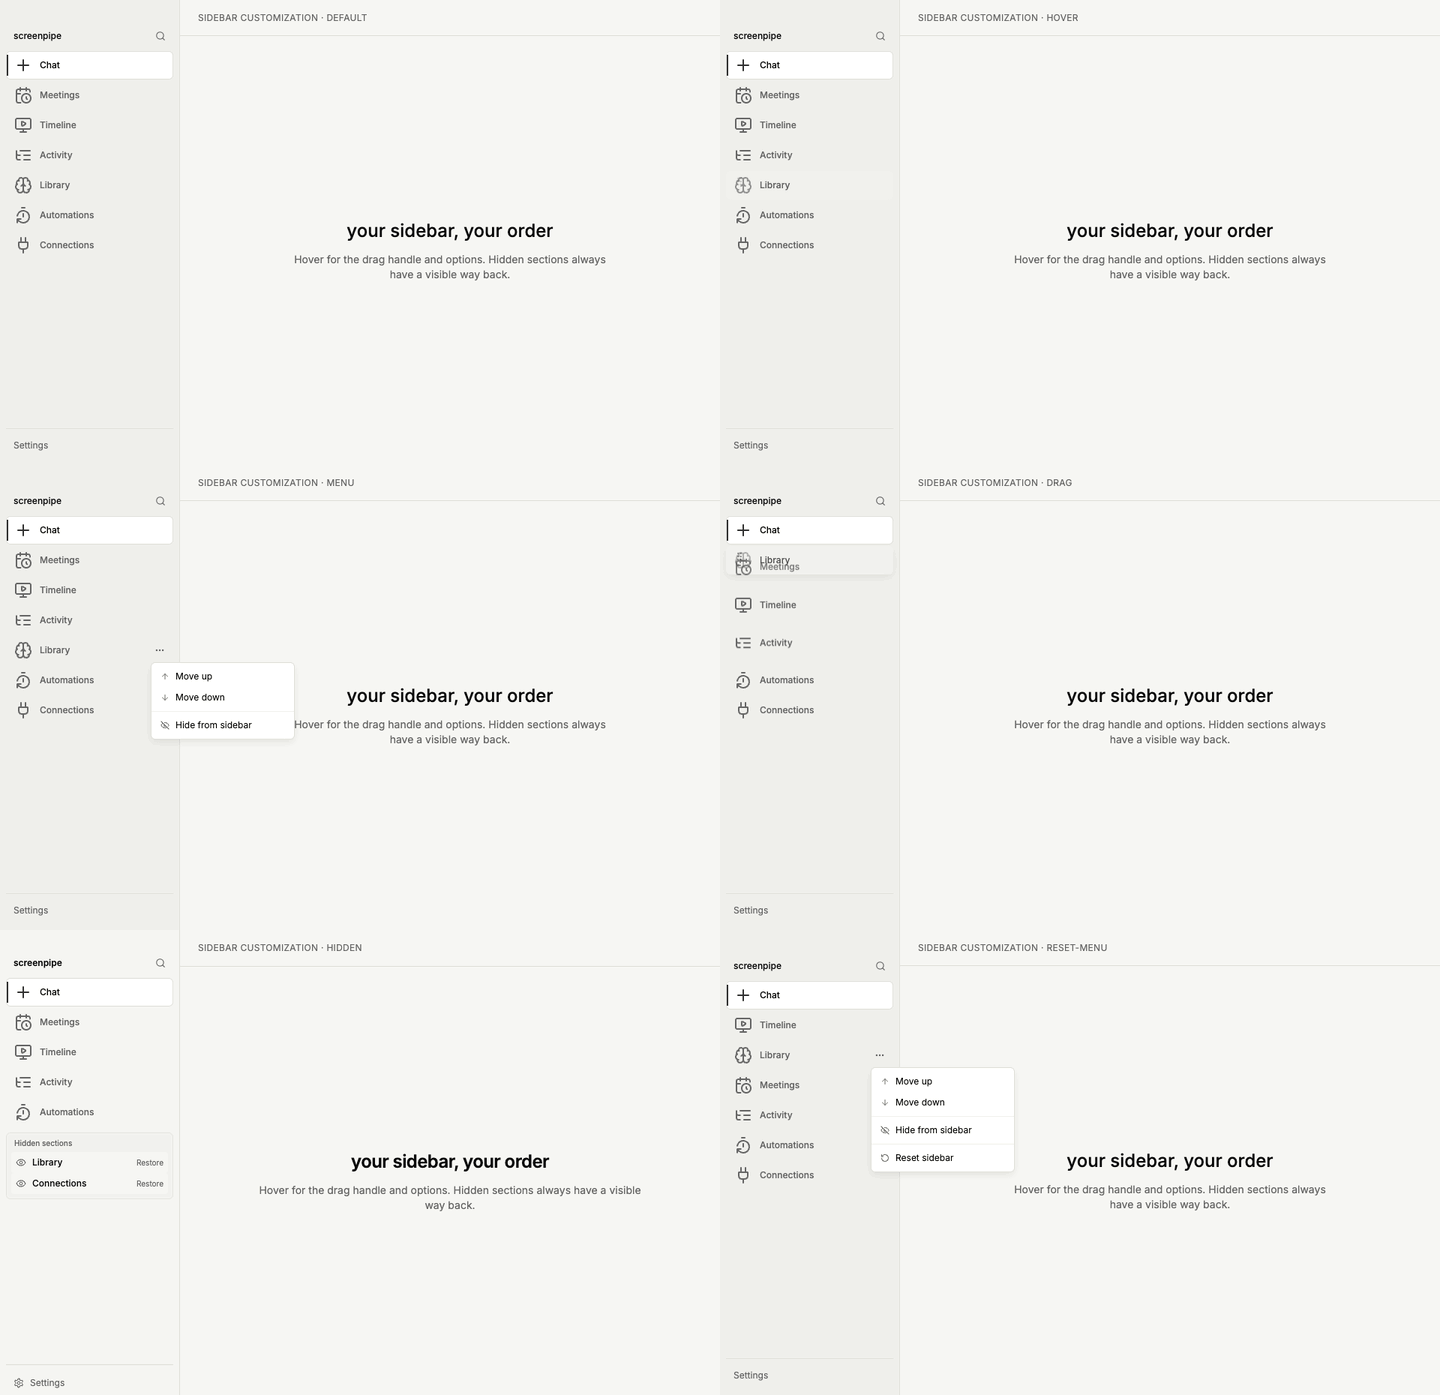
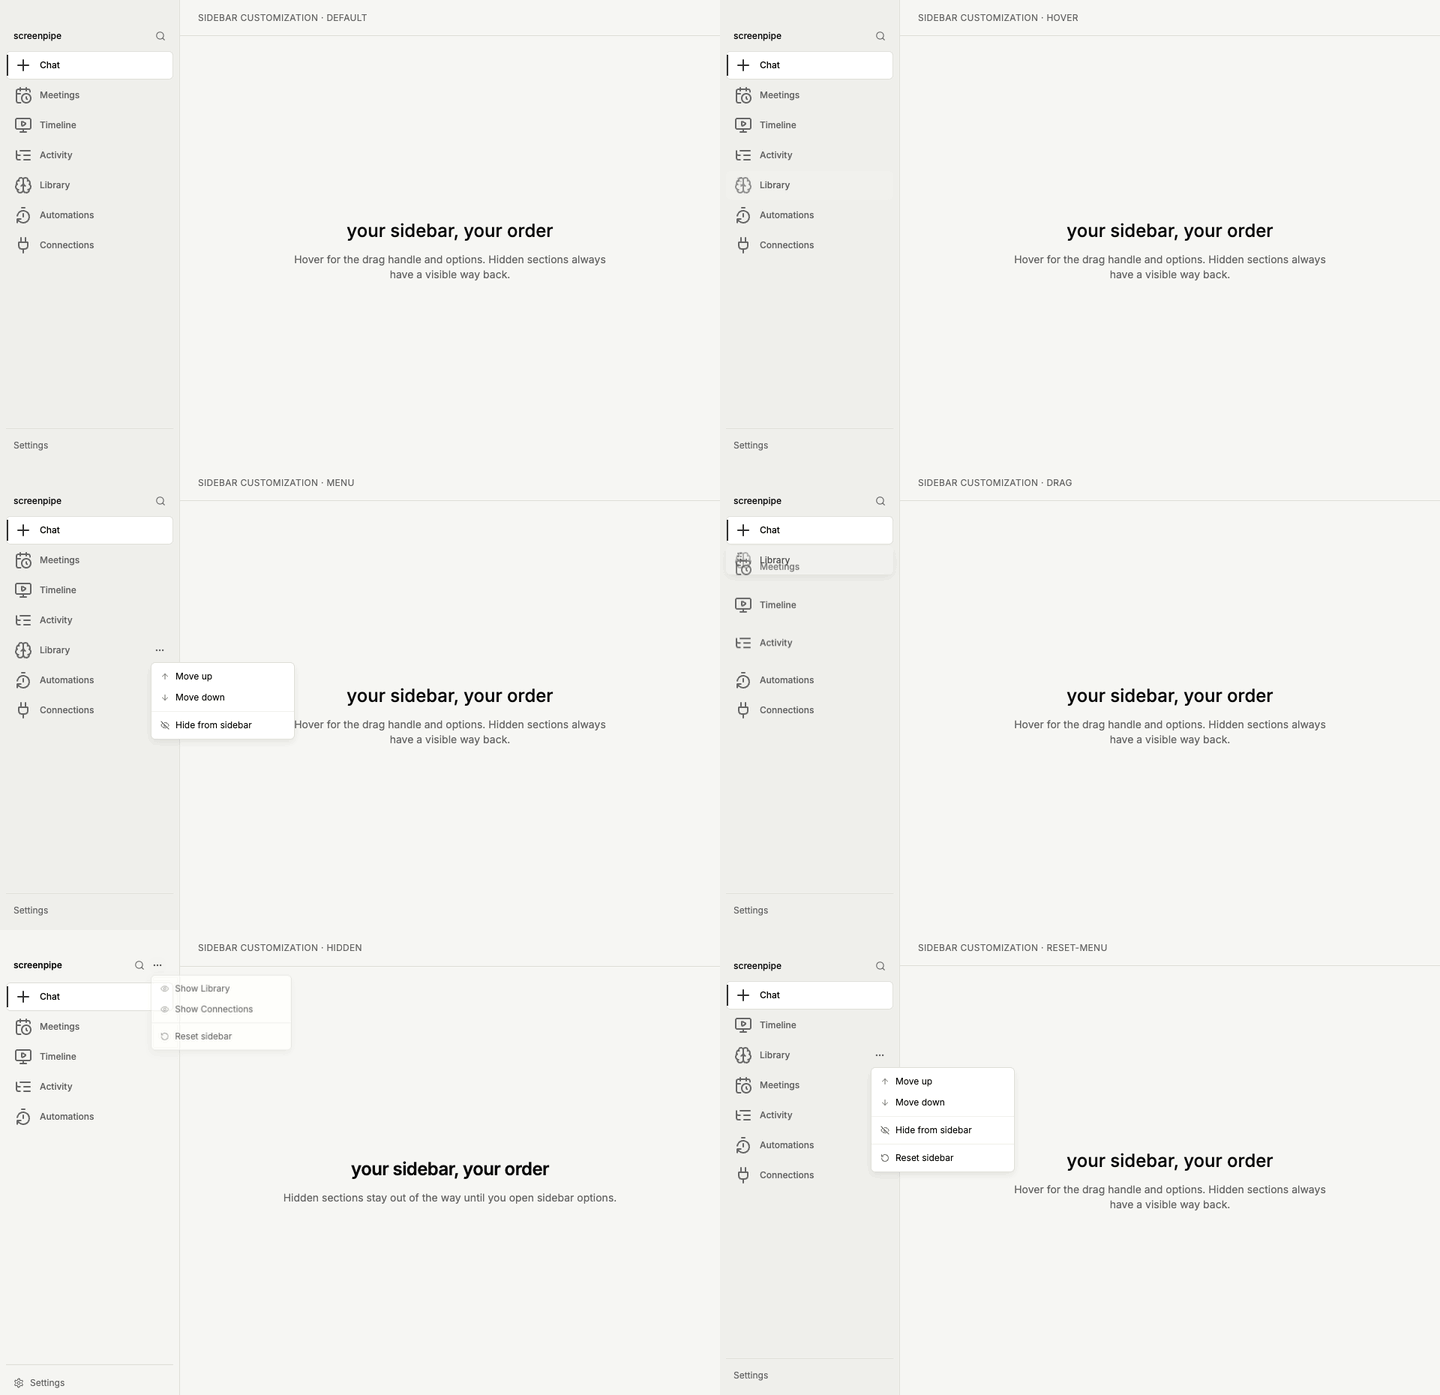
fix(sidebar): move hidden recovery into overflow

diff --git a/apps/screenpipe-app-tauri/components/sidebar-nav-list.tsx b/apps/screenpipe-app-tauri/components/sidebar-nav-list.tsx
@@ -12,11 +12,10 @@
 //     and a "…" button appears, the same two cues Notion/Linear/Slack use, and
 //     the "…" opens the identical menu right-click does (one menu, two ways in
 //     — mirroring RowMenuItems in chat-sidebar.tsx).
-//   * Hiding a row used to make it vanish with no trace, and the only way back
-//     was right-clicking a *different* row to find "Show X". Hidden rows now
-//     have a home: an explicit recovery panel under the nav listing exactly
-//     what is hidden, with a named Restore action. The control sits next to the
-//     thing it affects instead of inside an unrelated row's menu.
+//   * Hiding should remove chrome, not replace it with a second list. Once the
+//     layout changes, a compact sidebar-options button appears in the top
+//     chrome. Hidden rows live behind that progressive disclosure as explicit
+//     "Show X" actions.
 //
 import React from "react";
 import {
@@ -71,8 +70,6 @@ export type SidebarNavItem = {
 
 export type SidebarNavListProps = {
   items: SidebarNavItem[];
-  /** Ids the user can bring back, with their labels, for the hidden strip. */
-  hiddenItems: Array<{ id: SidebarNavId; label: string }>;
   activeId: string;
   isTranslucent: boolean;
   canReset: boolean;
@@ -82,6 +79,13 @@ export type SidebarNavListProps = {
   onShift: (id: SidebarNavId, direction: -1 | 1) => void;
   onSetHidden: (id: SidebarNavId, hidden: boolean) => void;
   onReset: () => void;
+};
+
+export type SidebarCustomizationMenuProps = Pick<
+  SidebarNavListProps,
+  "isTranslucent" | "canReset" | "onSetHidden" | "onReset"
+> & {
+  hiddenItems: Array<{ id: SidebarNavId; label: string }>;
 };
 
 const ITEM_CLS =
@@ -104,8 +108,8 @@ function rowClassName(isActive: boolean, isTranslucent: boolean) {
 
 /**
  * One menu, rendered into either the right-click surface or the "…" dropdown.
- * Actions are scoped to this row only — restoring a hidden row belongs to the
- * hidden strip, next to the row it affects.
+ * Actions are scoped to this row only. Restoring hidden rows lives behind the
+ * compact sidebar-options button in the top chrome.
  */
 function RowMenuItems({
   variant,
@@ -300,62 +304,62 @@ function SortableRow({
   );
 }
 
-/**
- * Where hidden rows live. Without this, hiding a row is a one-way door: it
- * vanishes and the user has no visible path back. Rendered only when something
- * is actually hidden, so a stock sidebar carries no extra chrome.
- */
-function HiddenStrip({
+/** Progressive disclosure for restoring hidden rows or resetting the layout. */
+export function SidebarCustomizationMenu({
   hiddenItems,
   isTranslucent,
-  onShow,
-}: {
-  hiddenItems: SidebarNavListProps["hiddenItems"];
-  isTranslucent: boolean;
-  onShow: (id: SidebarNavId) => void;
-}) {
-  if (hiddenItems.length === 0) return null;
+  canReset,
+  onSetHidden,
+  onReset,
+}: SidebarCustomizationMenuProps) {
+  if (!canReset) return null;
   return (
-    <div
-      className={cn(
-        "mt-2 rounded-md border p-1.5",
-        isTranslucent
-          ? "border-white/10 bg-white/5"
-          : "border-border/70 bg-muted/30",
-      )}
-      data-testid="sidebar-hidden-strip"
-    >
-      <p className="px-1 pb-1 text-[10px] font-medium text-muted-foreground">
-        Hidden sections
-      </p>
-      {hiddenItems.map((hidden) => (
+    <DropdownMenu>
+      <DropdownMenuTrigger asChild>
         <button
-          key={hidden.id}
           type="button"
-          data-testid={`sidebar-show-${hidden.id}`}
-          onClick={() => onShow(hidden.id)}
-          aria-label={`Restore ${hidden.label} to sidebar`}
+          aria-label="sidebar options"
+          title="sidebar options"
+          data-testid="sidebar-options"
+          data-announcement-anchor="top-sidebar-options"
           className={cn(
-            "group/restore flex w-full items-center gap-2 rounded-sm px-1.5 py-1.5 text-left transition-colors duration-150 focus-visible:outline-none focus-visible:ring-1 focus-visible:ring-inset focus-visible:ring-signal motion-reduce:transition-none",
+            "rounded-md p-1 transition-colors focus-visible:outline-none focus-visible:ring-1 focus-visible:ring-signal",
             isTranslucent
-              ? "vibrant-nav-item vibrant-nav-hover"
-              : "bg-background/60 text-foreground hover:bg-card",
+              ? "vibrant-nav-item"
+              : "text-muted-foreground hover:bg-muted/50 hover:text-foreground",
           )}
         >
-          <Eye className="h-3.5 w-3.5 shrink-0 text-muted-foreground" />
-          <span className="truncate text-xs font-medium">{hidden.label}</span>
-          <span className="ml-auto text-[10px] text-muted-foreground group-hover/restore:text-foreground">
-            Restore
-          </span>
+          <MoreHorizontal className="h-3.5 w-3.5" />
         </button>
-      ))}
-    </div>
+      </DropdownMenuTrigger>
+      <DropdownMenuContent align="start" className="w-48">
+        {hiddenItems.map((hidden) => (
+          <DropdownMenuItem
+            key={hidden.id}
+            className={ITEM_CLS}
+            data-testid={`sidebar-show-${hidden.id}`}
+            onSelect={() => onSetHidden(hidden.id, false)}
+          >
+            <Eye />
+            Show {hidden.label}
+          </DropdownMenuItem>
+        ))}
+        {hiddenItems.length > 0 && <DropdownMenuSeparator />}
+        <DropdownMenuItem
+          className={ITEM_CLS}
+          data-testid="sidebar-options-reset"
+          onSelect={onReset}
+        >
+          <RotateCcw />
+          Reset sidebar
+        </DropdownMenuItem>
+      </DropdownMenuContent>
+    </DropdownMenu>
   );
 }
 
 export function SidebarNavList({
   items,
-  hiddenItems,
   activeId,
   isTranslucent,
   canReset,
@@ -412,11 +416,6 @@ export function SidebarNavList({
           </div>
         </SortableContext>
       </DndContext>
-      <HiddenStrip
-        hiddenItems={hiddenItems}
-        isTranslucent={isTranslucent}
-        onShow={(id) => onSetHidden(id, false)}
-      />
     </div>
   );
 }

diff --git a/apps/screenpipe-app-tauri/components/__tests__/sidebar-nav-list.test.tsx b/apps/screenpipe-app-tauri/components/__tests__/sidebar-nav-list.test.tsx
@@ -4,7 +4,11 @@
 
 import { afterEach, beforeAll, describe, expect, it, vi } from "vitest";
 import { cleanup, fireEvent, render, screen } from "@testing-library/react";
-import { SidebarNavList, type SidebarNavItem } from "../sidebar-nav-list";
+import {
+  SidebarCustomizationMenu,
+  SidebarNavList,
+  type SidebarNavItem,
+} from "../sidebar-nav-list";
 import type { SidebarNavId } from "@/lib/utils/sidebar-nav-layout";
 
 const ITEMS: SidebarNavItem[] = [
@@ -24,10 +28,28 @@ function renderList(overrides: Partial<React.ComponentProps<typeof SidebarNavLis
   render(
     <SidebarNavList
       items={ITEMS}
-      hiddenItems={[{ id: "meetings" as SidebarNavId, label: "Meetings" }]}
       activeId="home"
       isTranslucent={false}
       canReset={false}
+      {...handlers}
+      {...overrides}
+    />,
+  );
+  return handlers;
+}
+
+function renderCustomizationMenu(
+  overrides: Partial<React.ComponentProps<typeof SidebarCustomizationMenu>> = {},
+) {
+  const handlers = {
+    onSetHidden: vi.fn(),
+    onReset: vi.fn(),
+  };
+  render(
+    <SidebarCustomizationMenu
+      hiddenItems={[{ id: "meetings" as SidebarNavId, label: "Meetings" }]}
+      isTranslucent={false}
+      canReset
       {...handlers}
       {...overrides}
     />,
@@ -119,24 +141,23 @@ describe("SidebarNavList", () => {
     expect(handlers.onSetHidden).toHaveBeenCalledWith("pipes", true);
   });
 
-  // The strongest products in this space (Linear "More", Notion "Hidden",
-  // Superhuman "Inactive") all give hidden entries a visible home. Restoring
-  // must not require hunting through an unrelated row's menu.
-  it("gives hidden rows a visible home that restores them in one click", () => {
-    const handlers = renderList();
-    expect(screen.getByTestId("sidebar-hidden-strip")).toBeInTheDocument();
-    expect(screen.getByText("Hidden sections")).toBeVisible();
-    const restoreButton = screen.getByRole("button", {
-      name: "Restore Meetings to sidebar",
-    });
-    expect(restoreButton).toHaveTextContent("Restore");
-    fireEvent.click(restoreButton);
+  it("restores hidden rows through progressive disclosure", () => {
+    const handlers = renderCustomizationMenu();
+    openDropdown("sidebar-options");
+    fireEvent.click(screen.getByText("Show Meetings"));
     expect(handlers.onSetHidden).toHaveBeenCalledWith("meetings", false);
   });
 
-  it("carries no hidden strip when nothing is hidden", () => {
-    renderList({ hiddenItems: [] });
-    expect(screen.queryByTestId("sidebar-hidden-strip")).toBeNull();
+  it("adds no sidebar-options chrome before the layout changes", () => {
+    renderCustomizationMenu({ hiddenItems: [], canReset: false });
+    expect(screen.queryByTestId("sidebar-options")).toBeNull();
+  });
+
+  it("resets a customized layout from sidebar options", () => {
+    const handlers = renderCustomizationMenu({ hiddenItems: [] });
+    openDropdown("sidebar-options");
+    fireEvent.click(screen.getByTestId("sidebar-options-reset"));
+    expect(handlers.onReset).toHaveBeenCalled();
   });
 
   // Discoverability: right-click and drag are both invisible affordances, so
@@ -178,7 +199,6 @@ describe("SidebarNavList", () => {
           trailing: <span data-testid="recording-dot" />,
         },
       ],
-      hiddenItems: [],
     });
     expect(screen.getByTestId("recording-dot")).toBeInTheDocument();
   });

diff --git a/apps/screenpipe-app-tauri/app/(main)/home/page.tsx b/apps/screenpipe-app-tauri/app/(main)/home/page.tsx
@@ -48,7 +48,10 @@ import {
   isSidebarNavLayoutDefault,
   type SidebarNavId,
 } from "@/lib/utils/sidebar-nav-layout";
-import { SidebarNavList } from "@/components/sidebar-nav-list";
+import {
+  SidebarCustomizationMenu,
+  SidebarNavList,
+} from "@/components/sidebar-nav-list";
 import { CommandPalette } from "@/components/command-palette";
 import { useToast } from "@/components/ui/use-toast";
 import { ToastAction } from "@/components/ui/toast";
@@ -1111,8 +1114,8 @@ function HomeContent() {
       title: `${label} hidden`,
       description:
         id === "meetings"
-          ? "still one click away from the icon next to search."
-          : "find it under Hidden at the bottom of the sidebar.",
+          ? "still one click away from the icon in the top bar."
+          : "use sidebar options in the top bar to bring it back.",
       action: (
         <ToastAction
           altText={`Show ${label} in the sidebar again`}
@@ -1330,6 +1333,28 @@ function HomeContent() {
               </Tooltip>
             )}
 
+            {!sidebarCollapsed && (
+              <SidebarCustomizationMenu
+                hiddenItems={hiddenSidebarIds.map((id) => ({
+                  id,
+                  label: SIDEBAR_SECTION_DEFS[id].label,
+                }))}
+                isTranslucent={isTranslucent}
+                canReset={!isSidebarNavLayoutDefault(sidebarLayout)}
+                onSetHidden={(id, hidden) => {
+                  persistSidebarLayout(
+                    setSidebarNavItemHidden(
+                      sidebarLayout,
+                      availableSidebarIds,
+                      id,
+                      hidden,
+                    ),
+                  );
+                }}
+                onReset={() => persistSidebarLayout(DEFAULT_SIDEBAR_NAV_LAYOUT)}
+              />
+            )}
+
             {!sidebarCollapsed && meetingsInToolbar && (
               <Tooltip>
                 <TooltipTrigger asChild>
@@ -1398,10 +1423,6 @@ function HomeContent() {
                   eligibility. */}
               <SidebarNavList
                 items={mainSections}
-                hiddenItems={hiddenSidebarIds.map((id) => ({
-                  id,
-                  label: SIDEBAR_SECTION_DEFS[id].label,
-                }))}
                 activeId={activeSection}
                 isTranslucent={isTranslucent}
                 canReset={!isSidebarNavLayoutDefault(sidebarLayout)}
